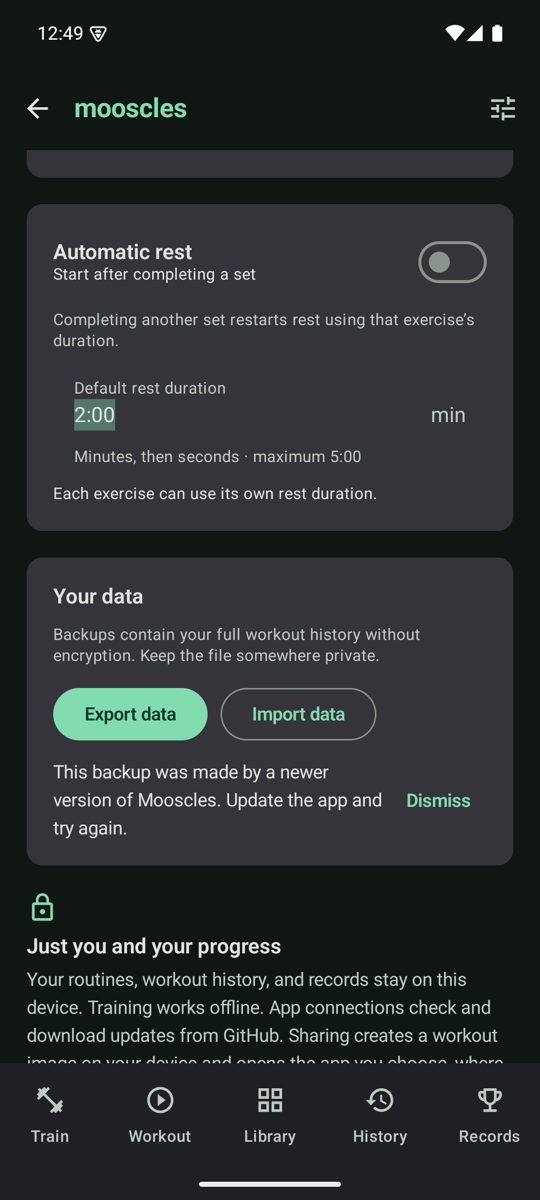
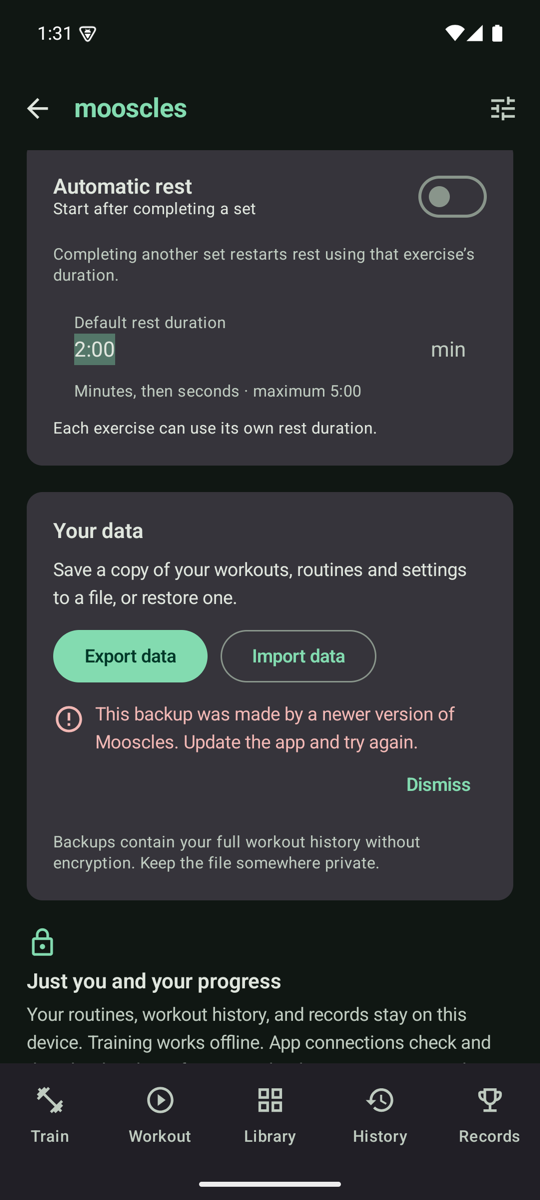
docs(backup): refresh verification after UI fixes

Changed region(s): [[0.0296, 0.1233, 0.9481, 0.8942], [0.0889, 0.0, 0.2074, 0.0308]]

diff --git a/docs/superpowers/reports/2026-10-27-export-import-verificacao.md b/docs/superpowers/reports/2026-10-27-export-import-verificacao.md
@@ -1,7 +1,7 @@
 # Export e import: verificação no emulador
 
 - **Data:** 2026-10-27
-- **Branch:** `feat/export-import` (código em `776bb90`; este commit só traz docs)
+- **Branch:** `feat/export-import`. A primeira rodada verificou o código em `776bb90`. A [segunda rodada](#segunda-rodada-depois-de-217a9a9) verificou `217a9a9`, que corrige os itens 1 a 7 da UI critique.
 - **Spec:** [2026-10-27-export-import-design.md](../specs/2026-10-27-export-import-design.md)
 - **Plano:** [2026-10-27-export-import.md](../plans/2026-10-27-export-import.md)
 - **Prints:** [2026-10-27-export-import-verificacao/](2026-10-27-export-import-verificacao/)
@@ -10,7 +10,7 @@
 
 O fluxo funciona de ponta a ponta no emulador, pelo seletor de arquivos do sistema. Export, `pm clear`, import, conferência dos dados, reimport idempotente, arquivos inválidos e o bloqueio durante um treino ativo se comportaram como a spec descreve. O build R8 (`assemblePerformance`) fez a ida e volta completa, e o `kotlinx.serialization` funciona minificado.
 
-**O problema encontrado:** com a base grande (208 treinos, 12.688 séries), o import termina de gravar em poucos segundos, mas em seguida a thread principal fica travada por **~142 s no build debug** e **~25 s no build R8**. A causa não está no código de backup. É o recálculo de PR do histórico em `WorkoutPresentation.present()`, na thread principal, que já trava a abertura do app e a troca de unidade com a mesma base (a fase 0 do ROADMAP já prevê tirar esse cálculo da thread principal). O import dispara esse recálculo uma ou duas vezes. Na prática, isso viola o anti-objetivo da spec "o export ou o import travar a UI" para a base grande. A decisão sobre o que fazer fica com o controlador (ver [Pontos para decisão](#pontos-para-decisão)).
+**O problema encontrado:** com a base grande (208 treinos, 12.688 séries), o import termina de gravar em poucos segundos, mas em seguida a thread principal fica travada por **~142 s no build debug** e **~25 s no build R8**. A causa não está no código de backup. É o recálculo de PR do histórico em `WorkoutPresentation.present()`, na thread principal, que já trava a abertura do app e a troca de unidade com a mesma base (a fase 0 do ROADMAP já prevê tirar esse cálculo da thread principal). O import dispara esse recálculo uma ou duas vezes. Na prática, isso viola o anti-objetivo da spec "o export ou o import travar a UI" para a base grande. Com qualquer toque durante o travamento, o Android mostra o diálogo **"Mooscles isn't responding" (ANR)**. Isso foi reproduzido na segunda rodada, depois do import, e também aconteceu numa abertura a frio. **Decisão:** o travamento não é corrigido nesta branch. A correção é o item "Cálculo de PR fora da thread principal", que passa a ser o próximo trabalho da fase 0 e bloqueia a release da v1.5 (ver [Decisão](#decisão) e a nota de 2026-10-27 na spec). Até lá, quem tiver um histórico grande e usar o APK debug distribuído vai ver esse diálogo depois de importar, e possivelmente ao abrir o app.
 
 ## Ambiente
 
@@ -68,14 +68,14 @@ Durante o import da execução 2, a pilha do processo foi amostrada a cada ~3 s 
 
 Portanto a gravação termina em menos de ~8 s. O tempo restante vai para o `historyUi = finished.map { workout(it, historical) }`, que para **cada** treino reconstrói um `SnapshotIndex` e compara com todos os treinos anteriores. O custo é quadrático no número de treinos, e o cálculo roda na thread principal, como o AGENTS.md descreve. No build debug o import provoca dois recálculos: um pela mudança dos dados e outro porque a restauração das preferências muda `pounds` (`historyPounds`). No R8 o arquivo tinha `pounds = false`, igual ao padrão, e houve um recálculo só.
 
-**ANR:** o `logcat` não tem nenhum `ANR in com.mooscles`, e `/data/anr` não tem traces do Mooscles desta sessão. Os traces que existem lá são de `com.google.android.apps.messaging` e do GMS. Isso só aconteceu porque **nenhum toque foi enviado durante os travamentos**. Um toque real de mais de 5 s sem resposta provavelmente abriria o diálogo "Mooscles isn't responding". Isso é inferência, não foi testado.
+**ANR:** na primeira rodada o `logcat` não teve `ANR in com.mooscles`, só porque nenhum toque foi enviado durante os travamentos. Na segunda rodada houve toques, e o ANR **apareceu duas vezes**. Os detalhes estão em [ANR observado](#anr-observado).
 
-**Indicador de `busy`:** durante a leitura e a validação (antes do diálogo), a barra de progresso aparece no card e os dois botões ficam desabilitados ([print 02](2026-10-27-export-import-verificacao/02-busy-progress.png)). Durante a gravação, porém, o diálogo "Import backup?" **continua aberto**, com Cancel e Import habilitados, e a barra fica atrás do scrim. Durante o travamento nada anima. Isso é coerente com o código: `confirmImport` só limpa `pendingImport` no `finally`.
+**Indicador de `busy`:** durante a leitura e a validação (antes do diálogo), a barra de progresso aparece no card e os dois botões ficam desabilitados ([print 02](2026-10-27-export-import-verificacao/02-busy-progress.png)). Durante a gravação, porém, o diálogo "Import backup?" **continua aberto**, com Cancel e Import habilitados, e a barra fica atrás do scrim. Durante o travamento nada anima. Isso é coerente com o código: `confirmImport` só limpa `pendingImport` no `finally`. **Corrigido no `217a9a9`:** o diálogo fecha 0,5 s depois de confirmar, e o card mostra "Importing…" com a barra ([print 02](2026-10-27-export-import-verificacao/02-busy-progress.png)).
 
 ## O que foi verificado no emulador
 
 1. **Build e instalação:** `./gradlew :app:assembleDebug` e `adb -s emulator-5554 install -r` (versionCode 16, 1.4.5).
-2. **Import pelo seletor numa base vazia** (`pm clear` antes). O resumo diz "Add 208 workouts, 3 routines and 2 custom exercises. Your units, theme and rest settings will also be restored." ([print 03](2026-10-27-export-import-verificacao/03-summary-new-install.png)). O resultado foi "Imported 208 workouts, 3 routines and 2 custom exercises" ([print 05](2026-10-27-export-import-verificacao/05-imported-done.png)).
+2. **Import pelo seletor numa base vazia** (`pm clear` antes). O resumo diz "Add 208 workouts, 3 routines and 2 custom exercises. Your units, theme and rest settings will also be restored." O resultado foi "Imported 208 workouts, 3 routines and 2 custom exercises" (na segunda rodada, com ícone de check: [print 05](2026-10-27-export-import-verificacao/05-imported-done.png)). O print deste diálogo é da primeira rodada e saiu da pasta, porque o fundo mostrava o card antigo. O texto do diálogo não mudou no `217a9a9`.
 3. **Export pelo seletor** (`ACTION_CREATE_DOCUMENT`): nome sugerido `mooscles-backup-2026-10-27.json`, pasta Downloads. Mensagem "Exported 208 workouts, 3 routines and 2 custom exercises". O arquivo foi baixado e comparado com o de origem: as 208 linhas de treino, as 1.248 de exercício de treino, as 12.688 de série, as 2 pastas e as 3 rotinas são idênticas. As 27 séries e os 9 itens de rotina têm a mesma identidade, e só os 9 alvos com `inheritPr = true` e as colunas espelho mudaram, como a spec prevê para alvos herdados de PR. A sincronização gerou 6 checkpoints, e o export levou o catálogo inteiro (295 exercícios), como a spec pede.
 4. **Fluxo completo da spec:** export → `pm clear com.mooscles` (**só no emulador**) → import do arquivo exportado. Depois disso:
    - **Banco:** contagens conferidas por `sqlite3` no emulador (`workouts` 208, `workout_exercises` 1248, `workout_sets` 12688, `routines` 3, `routine_exercises` 9, `routine_sets` 27, `routine_folders` 2, `routine_target_checkpoints` 6, exercícios personalizados 2, `user_version` 5).
@@ -83,15 +83,15 @@ Portanto a gravação termina em menos de ~8 s. O tempo restante vai para o `his
    - **Rotinas:** "Verif routine 1" em My routines, com 3 exercícios e 9 séries planejadas.
    - **Recordes:** Records lista Weight PR e Reps PR de "Barbell bench press", exibidos em **lb**.
    - **Preferências restauradas na instalação nova:** tema escuro, libras e descanso automático desligado. O descanso padrão de 2:00 do arquivo é igual ao valor padrão do app, então esse campo não prova a restauração.
-5. **Reimport do mesmo arquivo:** o resumo diz "Add 0 workouts, 0 routines and 0 custom exercises. 208 workouts are already on this phone and will be kept as they are." ([print 04](2026-10-27-export-import-verificacao/04-summary-already-on-phone.png)). Depois de confirmar, a mensagem é "Imported 0 workouts, 0 routines and 0 custom exercises" e as contagens de todas as tabelas ficam iguais.
+5. **Reimport do mesmo arquivo:** o resumo diz "Add 0 workouts, 0 routines and 0 custom exercises. 208 workouts are already on this phone and will be kept as they are." Depois de confirmar, a mensagem era "Imported 0 workouts, 0 routines and 0 custom exercises", e as contagens de todas as tabelas ficaram iguais. **Mudou no `217a9a9`:** agora o diálogo diz "Everything in this backup is already on this phone." e só oferece OK ([print 04](2026-10-27-export-import-verificacao/04-nothing-new.png)). Depois do OK não aparece mensagem nenhuma.
 6. **Arquivos inválidos**, com o hash MD5 do `sqlite3 .dump` e do `local_preferences.preferences_pb` conferido antes e depois:
-   - `random-notes.json`: "This file is not a Mooscles backup." ([print 06](2026-10-27-export-import-verificacao/06-error-not-a-backup.png));
-   - `"formatVersion": 2`: "This backup was made by a newer version of Mooscles. Update the app and try again." ([print 07](2026-10-27-export-import-verificacao/07-error-newer-version.png));
+   - `random-notes.json`: "This file is not a Mooscles backup." (só na primeira rodada; o print saiu da pasta);
+   - `"formatVersion": 2`: "This backup was made by a newer version of Mooscles. Update the app and try again." (refeito na segunda rodada: texto e ícone na cor de erro, [print 07](2026-10-27-export-import-verificacao/07-error-newer-version.png));
    - nenhum diálogo de resumo abriu, e os dois hashes ficaram idênticos (`25d968ee…` e `4de1f925…`).
 7. **Cancelamentos:** voltar do seletor de import e do de export não faz nada. Não aparece mensagem, e o hash do banco não muda. Cancel no diálogo de resumo também não grava nada (208 treinos antes e depois).
 8. **Treino ativo:** com um treino vazio iniciado, **Import data** fica desabilitado (`enabled="false"` no `uiautomator`) e aparece o texto "Finish or discard the active workout to import". **Export data** continua habilitado ([print 08](2026-10-27-export-import-verificacao/08-active-workout-block.png)). Depois, o treino foi descartado (208 finalizados, nenhum ativo).
 9. **R8 (`./gradlew :app:assemblePerformance`):** instalado com `install -r` sobre o debug, sem erro de assinatura, porque usa a mesma chave local. Ida e volta completa: export (5.352.603 bytes) → `pm clear` → import → mensagem "Imported 208 workouts, 3 routines and 2 custom exercises" e as mesmas contagens no banco. O export R8 foi comparado com o export debug: as 9 listas são idênticas linha por linha, os nomes de campo estão preservados (`id`, `name`, `startedAt`…), não há crash e não aparece `SerializationException` no `logcat`. **O `kotlinx.serialization` funciona sob R8 sem regras de keep adicionais.**
-10. **Temas:** o card foi visto no claro ([print 01](2026-10-27-export-import-verificacao/01-card-idle.png)) e no escuro (prints 02 a 08).
+10. **Temas:** o card foi visto no claro (prints 02 e 03, durante o import numa instalação nova) e no escuro (prints 01 e 04 a 08).
 
 No fim, o emulador ficou de novo com o build debug (`install -r`) e o `adbd` sem root.
 
@@ -104,29 +104,30 @@ No fim, o emulador ficou de novo com o build debug (`install -r`) e o `adbd` sem
 - **JSON corrompido, referência faltando, ID duplicado, dois treinos ativos e treino ativo vindo do arquivo:** cobertos só por testes de host.
 - **Preferências mantidas quando o aparelho já tem dados.** No reimport, o arquivo e o aparelho tinham as mesmas preferências, então o caso não dá para distinguir no emulador. Isso só está coberto em host.
 - **TalkBack:** o anúncio da mensagem (`liveRegion`) e a descrição "Working…" da barra não foram ouvidos.
-- **ANR com toque do usuário durante o travamento.** Não foi provocado.
 - Fonte grande, paisagem e tablets.
 - **Fluxo Maestro.** Não foi criado `.maestro/export-import.yaml`. O seletor foi controlado por `adb` e `uiautomator` e funcionou, mas não com estabilidade suficiente para virar um fluxo versionado: a lista "Recent" do DocumentsUI mostra entradas antigas de arquivos apagados com o mesmo nome, a grade e a lista trocam de posição, o tutorial de caneta do Gboard apareceu e engoliu o texto digitado no nome do arquivo, e o seletor demora de 3 a 4 s para fechar depois de SAVE.
 - **Revisão de compatibilidade (`compat-reviewer`):** fica com o controlador, como foi combinado.
+- **Depois do `217a9a9`:** o build R8 e o export não foram refeitos. A mensagem de sucesso só foi vista depois de um import, não depois de um export. O diálogo de resumo com dados novos não foi fotografado de novo, porque o texto não mudou.
+- **Medida de contraste no aparelho:** não foi feita. O contraste do texto de treino ativo vem do teste de host do `217a9a9`.
 
 ## UI critique
 
-Feita com a skill `critique-screen` sobre os prints 01 a 08 (card "Your data" e diálogo de resumo). A lista registra só o que foi encontrado: nada foi implementado.
+Feita com a skill `critique-screen` sobre os prints da primeira rodada (card "Your data" e diálogo de resumo). Os itens 1 a 7 foram corrigidos no `217a9a9` e conferidos no emulador na segunda rodada. Os itens 8 a 10 ficaram para depois.
 
 ### P1 — Crítico
 
-1. **Affordance:** o diálogo de confirmação continua aberto durante a gravação, com Import e Cancel habilitados, e a barra de progresso fica escondida atrás do scrim. Com a base grande isso dura de 30 a 147 s, e Cancel não interrompe nada (o comando entra na fila e não tem efeito). **Correção:** fechar o diálogo ao confirmar (limpar `pendingImport` antes do trabalho) e mostrar o progresso no card, ou manter o diálogo com um progresso próprio e os botões desabilitados.
-2. **Cor:** mensagens de erro e de sucesso têm o mesmo estilo (`bodyMedium`, `onSurface`, sem ícone), como mostram os prints 05 e 07. Quem só passa os olhos não sabe se deu certo. **Correção:** erro com `colorScheme.error` ou `errorContainer` e ícone; sucesso com ícone de check. Assim a informação não depende só do texto.
-3. **Densidade e affordance:** quando não há nada a acrescentar, o diálogo diz "Add 0 workouts, 0 routines and 0 custom exercises…" e ainda oferece **Import**, que não faz nada. Em seguida aparece "Imported 0 workouts…". **Correção:** com tudo já no aparelho, dizer "Everything in this backup is already on this phone." com um único botão OK, e não usar "Imported 0…" como resultado.
+1. **Affordance:** o diálogo de confirmação continua aberto durante a gravação, com Import e Cancel habilitados, e a barra de progresso fica escondida atrás do scrim. Com a base grande isso dura de 30 a 147 s, e Cancel não interrompe nada (o comando entra na fila e não tem efeito). **Correção:** fechar o diálogo ao confirmar (limpar `pendingImport` antes do trabalho) e mostrar o progresso no card, ou manter o diálogo com um progresso próprio e os botões desabilitados. **Corrigido (`217a9a9`):** o diálogo some 0,47 s depois do toque em Import (polling de `dumpsys window`), e o card mostra "Importing…" com a barra (print 02).
+2. **Cor:** mensagens de erro e de sucesso têm o mesmo estilo (`bodyMedium`, `onSurface`, sem ícone), como mostram os prints 05 e 07. Quem só passa os olhos não sabe se deu certo. **Correção:** erro com `colorScheme.error` ou `errorContainer` e ícone; sucesso com ícone de check. Assim a informação não depende só do texto. **Corrigido:** o erro aparece na cor de erro, com ícone de alerta (print 07), e o sucesso com um check na cor primária (prints 05 e 08).
+3. **Densidade e affordance:** quando não há nada a acrescentar, o diálogo diz "Add 0 workouts, 0 routines and 0 custom exercises…" e ainda oferece **Import**, que não faz nada. Em seguida aparece "Imported 0 workouts…". **Correção:** com tudo já no aparelho, dizer "Everything in this backup is already on this phone." com um único botão OK, e não usar "Imported 0…" como resultado. **Corrigido:** o diálogo agora diz "Everything in this backup is already on this phone." e tem só OK (print 04). Depois do OK não aparece mensagem.
 
 ### P2 — Importante
 
-4. **Affordance:** a barra indeterminada não diz qual operação está rodando, e os dois botões ficam desabilitados sem explicação. **Correção:** um rótulo ao lado da barra ("Exporting…", "Checking backup…", "Importing…").
-5. **Hierarquia:** a primeira coisa que o card diz é o aviso de criptografia. Não há uma linha dizendo para que o card serve. **Correção:** abrir com o propósito ("Save a copy of your workouts, routines and settings to a file, or restore one.") e deixar o aviso de privacidade como texto secundário depois dos botões.
-6. **Composição:** a linha de mensagem divide a largura com um TextButton "Dismiss" de ~25%, e a mensagem quebra em 2 ou 3 linhas (prints 05 e 07). **Correção:** mensagem na largura toda, com o Dismiss abaixo, alinhado ao fim, ou um ícone de fechar de 48 dp.
-7. **Cor:** no tema escuro, o botão **Import data** desabilitado e o texto "Finish or discard…" ficam com contraste muito baixo (print 08). Botões desabilitados são exceção no WCAG, mas a explicação não é, e tem que passar de 4,5:1. **Correção:** manter a explicação em `onSurfaceVariant` com contraste medido, ou levá-la para perto do botão com um ícone de informação.
+4. **Affordance:** a barra indeterminada não diz qual operação está rodando, e os dois botões ficam desabilitados sem explicação. **Correção:** um rótulo ao lado da barra ("Exporting…", "Checking backup…", "Importing…"). **Corrigido:** vi "Checking backup…" (print 03) e "Importing…" (print 02). "Exporting…" não foi visto no emulador.
+5. **Hierarquia:** a primeira coisa que o card diz é o aviso de criptografia. Não há uma linha dizendo para que o card serve. **Correção:** abrir com o propósito ("Save a copy of your workouts, routines and settings to a file, or restore one.") e deixar o aviso de privacidade como texto secundário depois dos botões. **Corrigido:** o card abre com essa frase, e o aviso fica no fim (print 01).
+6. **Composição:** a linha de mensagem divide a largura com um TextButton "Dismiss" de ~25%, e a mensagem quebra em 2 ou 3 linhas (prints 05 e 07). **Correção:** mensagem na largura toda, com o Dismiss abaixo, alinhado ao fim, ou um ícone de fechar de 48 dp. **Corrigido:** a mensagem ocupa a largura toda, e o Dismiss fica abaixo, à direita (prints 05 e 07).
+7. **Cor:** no tema escuro, o botão **Import data** desabilitado e o texto "Finish or discard…" ficam com contraste muito baixo (print 08). Botões desabilitados são exceção no WCAG, mas a explicação não é, e tem que passar de 4,5:1. **Correção:** manter a explicação em `onSurfaceVariant` com contraste medido, ou levá-la para perto do botão com um ícone de informação. **Resolvido:** a cor não mudou, mas o teste de host do `217a9a9` (`activeWorkoutExplanationMeetsContrastInDarkTheme`) mediu 7,3:1 para o texto no tema escuro. Minha leitura visual estava errada quanto ao texto. O que tem pouco contraste é o botão desabilitado, que é exceção no WCAG (print 08).
 
-### P3 — Polimento
+### P3 — Polimento (fica para depois)
 
 8. **Tipografia:** os números do resumo ficam diluídos numa frase longa. **Correção:** dar destaque às contagens ou usar uma lista curta, uma linha por tipo.
 9. **Densidade:** o card de privacidade logo abaixo ("Workout data is excluded from automatic cloud backups") não menciona o export manual. **Correção:** acrescentar "unless you export it" ou um link para "Your data".
@@ -134,11 +135,40 @@ Feita com a skill `critique-screen` sobre os prints 01 a 08 (card "Your data" e 
 
 **Avaliação geral:** a dimensão mais forte é a composição. O card segue o padrão dos cards de Configurações, a ação segura (Export) é o botão cheio e o import é o contorno, e o bloqueio do treino ativo fica explicado no lugar certo. A mais fraca é a visibilidade de estado (affordance e cor): o diálogo fica aberto durante a gravação, erro e sucesso têm a mesma aparência e o caso "nada a acrescentar" pede uma confirmação sem efeito.
 
-## Pontos para decisão
+## Decisão
 
-- **Travamento depois do import com a base grande:** 25 s no R8 e 142 s no debug. A causa é anterior a este trabalho (recálculo de PR do histórico na thread principal) e já está no ROADMAP como item da fase 0. Opções: (a) aceitar até esse item ser feito e registrar a limitação, o que já está no README; (b) mitigar só no import, aplicando dados e preferências de uma vez para haver um único recálculo, o que no debug corta pela metade; (c) adiantar o item "Cálculo de PR fora da thread principal" antes da release da v1.5.
-- **Itens P1 da UI critique**, principalmente o diálogo aberto durante a gravação, que piora a percepção do travamento.
+Decisão do controlador em 2026-10-27, registrada na nota de desempenho da [spec](../specs/2026-10-27-export-import-design.md#notas-de-implementação):
+
+- **O travamento depois do import não é corrigido nesta branch.** A correção é o item "Cálculo de PR fora da thread principal" da fase 0 do [ROADMAP](../ROADMAP.md), que passa a ser o próximo trabalho e **bloqueia a release da v1.5**. A restrição da spec "a UI não congela" continua valendo e só fica cumprida com esse item.
+- **Consequência até lá:** quem tiver um histórico grande e usar o APK debug distribuído vai ver o diálogo "Mooscles isn't responding" depois de importar, se tocar na tela durante o travamento, e possivelmente ao abrir o app. Escolher "Close app" mata o processo. Os dados importados já estão gravados nesse momento, mas isso não foi conferido depois de um "Close app" no meio do travamento pós-import (ver a segunda rodada).
+- Os itens P1 e P2 da UI critique foram corrigidos no `217a9a9`.
+
+## Segunda rodada (depois de `217a9a9`)
+
+Feita em 2026-10-27 entre 13:25 e 13:40, no mesmo emulador, com `./gradlew :app:assembleDebug` e `adb -s emulator-5554 install -r`. A base no aparelho era a importada na primeira rodada. Os prints da pasta foram substituídos pelos desta rodada.
+
+| Verificação | Resultado |
+| --- | --- |
+| Card parado (tema escuro) | Abre com "Save a copy of your workouts, routines and settings to a file, or restore one.", seguido dos botões, com o aviso de criptografia no fim ([print 01](2026-10-27-export-import-verificacao/01-card-idle.png)) |
+| Arquivo com `formatVersion: 2` | Ícone de alerta e texto na cor de erro; Dismiss abaixo, à direita ([print 07](2026-10-27-export-import-verificacao/07-error-newer-version.png)) |
+| Reimport do arquivo grande (mesmos IDs) | Durante a leitura aparece "Checking backup…" com a barra e os dois botões desabilitados ([print 03](2026-10-27-export-import-verificacao/03-busy-checking.png)). Depois, "Everything in this backup is already on this phone." só com OK ([print 04](2026-10-27-export-import-verificacao/04-nothing-new.png)). Depois do OK não aparece nenhuma mensagem: o `uiautomator` não encontrou "Imported" nem "Dismiss" |
+| Import grande numa base vazia (`pm clear` só no emulador) | O diálogo de resumo levou 8,8 s para abrir depois do toque no arquivo. Ao confirmar, o diálogo fechou em 0,47 s e o card mostrou "Importing…" com a barra, no tema claro da instalação nova ([print 02](2026-10-27-export-import-verificacao/02-busy-progress.png)). A mensagem de sucesso e o tema escuro restaurado já aparecem por trás do diálogo de ANR (print 06), e depois a mensagem aparece com o ícone de check ([print 05](2026-10-27-export-import-verificacao/05-imported-done.png)) |
+| Treino ativo no tema escuro | Import data desabilitado (`enabled="false"`), explicação abaixo dos botões e Export habilitado ([print 08](2026-10-27-export-import-verificacao/08-active-workout-block.png)). Depois o treino foi descartado |
+
+### ANR observado
+
+**1. Depois do import (provocado de propósito).** O import foi confirmado às 13:33:59. A gravação e a mensagem terminaram em poucos segundos, e a thread principal ficou travada de ~13:34:03,6 a 13:34:51,3 (`Davey! duration=47675ms`, `Skipped 2845 frames`). Desta vez houve só um recálculo, não dois como na primeira rodada. Às 13:34:14 um toque foi injetado sobre o título do card, como faria um usuário. O `logcat` registrou:
+
+```
+13:34:19.794 I/WindowManager: ANR in Window{3cd0f3a u0 com.mooscles/com.mooscles.MainActivity}. Reason:Input dispatching timed out
+13:34:21.279 E/ActivityManager: ANR in com.mooscles (com.mooscles/.MainActivity)
+13:34:21.279 E/ActivityManager: Reason: Input dispatching timed out (... is not responding. Waited 5011ms for MotionEvent(deviceId=-1, ...
+```
+
+O `dumpsys activity lastanr` confirma: "ANR time: Oct 27, 2026 1:34:19 PM". O diálogo "Mooscles isn't responding", com "Close app" e "Wait", foi capturado às 13:34:44 ([print 06](2026-10-27-export-import-verificacao/06-anr-after-import.png)). Ele fechou sozinho às 13:34:51,3, quando a thread principal voltou. O toque em "Wait" que eu enviei às 13:34:59 chegou depois disso: o `uiautomator` não encontrou "Wait", e o toque de reserva por coordenada caiu em **Export data** e abriu o seletor de export. Voltei sem salvar, e nada foi gravado. O processo seguiu vivo (mesmo PID 24297), e o card mostrava "Imported 208 workouts, 3 routines and 2 custom exercises". As contagens no banco não foram conferidas por `sqlite3` nesta rodada, porque o `adbd` estava sem root.
+
+**2. Numa abertura a frio (sem querer).** Às 13:25:4x o app foi aberto com a base grande. Meu script de navegação continuou depois de um `uiautomator dump` falhar e mandou swipes durante o travamento da abertura. O resultado foi um ANR às 13:26:01,971 (`ANR in com.mooscles ... Input dispatching timed out`) e o diálogo às 13:26:03,7. Às 13:26:23,7 o diálogo foi fechado com **"Close app"** (`Killing 23041:com.mooscles/u0a207 (adj 0): user request after error`). Esse toque não saiu dos meus scripts; provavelmente foi de quem acompanhava o emulador. Depois disso, o meu próximo toque, procurando "Settings" no Mooscles, caiu no ícone do app Configurações do Android, que foi fechado com HOME. O script foi corrigido para parar quando o dump falha. Ao reabrir sem tocar na tela, a abertura travou 48,7 s (`Skipped 2920 frames`) e não houve ANR.
 
 ## Suíte final
 
-`./gradlew :app:testDebugUnitTest :app:lintDebug :app:assembleDebug --console=plain` → `BUILD SUCCESSFUL`. Foram 449 testes, 0 falhas, 0 erros e 0 ignorados, e o lint deu 0 erros e 21 avisos. O `testDebugUnitTest` e o `assembleDebug` vieram `UP-TO-DATE` da execução anterior no mesmo `776bb90`, porque o código não mudou e este commit só traz docs.
+`./gradlew :app:testDebugUnitTest :app:lintDebug :app:assembleDebug --console=plain` → `BUILD SUCCESSFUL`. Foram 449 testes, 0 falhas, 0 erros e 0 ignorados, e o lint deu 0 erros e 21 avisos. O `testDebugUnitTest` e o `assembleDebug` vieram `UP-TO-DATE` da execução anterior no mesmo `776bb90`, porque o código não mudou e este commit só traz docs. Para a segunda rodada (`217a9a9`) só rodei `:app:assembleDebug`. A suíte completa não foi rodada de novo por mim, porque o commit desta rodada também só traz docs. O resultado do `DataSectionHostTest` citado acima vem da execução do controlador.

diff --git a/README.md b/README.md
@@ -18,7 +18,7 @@ Version 1.4.5 / Build 16 prepares workout/card details on the UI thread while da
 
 ## Your data
 
-**Settings → Your data** exports everything (workouts, routines and folders, custom exercises, PR checkpoints and preferences) to one versioned JSON file, saved wherever you choose through the Android file picker. **Import data** reads and validates the whole file before writing anything, shows what will be added, and only adds: workouts and routines already on the phone are kept as they are, and importing the same file again changes nothing. Preferences are restored only on a phone with no workouts or routines yet. Import is unavailable during an active workout. The file is not encrypted, so keep it somewhere private. This feature is not in a published release yet. With a very large history, the app can still freeze after an import while it recalculates records, the same startup freeze noted above; see the [verification report](docs/superpowers/reports/2026-10-27-export-import-verificacao.md).
+**Settings → Your data** exports everything (workouts, routines and folders, custom exercises, PR checkpoints and preferences) to one versioned JSON file, saved wherever you choose through the Android file picker. **Import data** reads and validates the whole file before writing anything, shows what will be added, and only adds: workouts and routines already on the phone are kept as they are, and importing the same file again changes nothing. Preferences are restored only on a phone with no workouts or routines yet. Import is unavailable during an active workout. The file is not encrypted, so keep it somewhere private. This feature is not in a published release yet. Known limit: with a very large history, the app freezes for tens of seconds after an import while it recalculates records, the same freeze noted above for startup. Touching the screen during the freeze shows Android's "isn't responding" dialog. Moving that calculation off the main thread is the next planned fix and blocks the next release. See the [verification report](docs/superpowers/reports/2026-10-27-export-import-verificacao.md).
 
 ## Download
 

diff --git a/docs/superpowers/ROADMAP.md b/docs/superpowers/ROADMAP.md
@@ -76,9 +76,9 @@ As durações são estimativas para um desenvolvedor sozinho e servem para orden
 
 **Entregas:**
 
-- Export/import de todos os dados em JSON com versão, pelo seletor de arquivos do sistema ([spec](specs/2026-10-27-export-import-design.md)). **Concluído (2026-10-27)** na branch `feat/export-import`, ainda sem release: [plano](plans/2026-10-27-export-import.md), [verificação no emulador](reports/2026-10-27-export-import-verificacao.md). Com a base grande, o import dispara o travamento já conhecido do cálculo de PR na thread principal (item abaixo); o relatório traz os números.
+- Export/import de todos os dados em JSON com versão, pelo seletor de arquivos do sistema ([spec](specs/2026-10-27-export-import-design.md)). **Concluído (2026-10-27)** na branch `feat/export-import`, ainda sem release: [plano](plans/2026-10-27-export-import.md), [verificação no emulador](reports/2026-10-27-export-import-verificacao.md). Com a base grande, o import dispara o travamento já conhecido do cálculo de PR na thread principal, e um toque durante o travamento abre o diálogo de ANR. Decisão de 2026-10-27: isso não é corrigido nesta branch, e sim pelo item abaixo. O relatório traz os números.
 - Cópia de segurança da chave de assinatura, guardada fora da máquina, no 1Password. **Pendente (2026-10-27):** a chave das releases está com o dono do repositório original (`ReiTut/Mooscles`), não no Mac deste fork. O trabalho segue em branches e o assunto é resolvido na release final, quando o PR for aberto para o repositório original. Até lá, builds feitos aqui servem só para emulador e testes.
-- Cálculo de PR fora da thread principal, com recordes materializados, para acabar com o travamento na abertura.
+- Cálculo de PR fora da thread principal, com recordes materializados, para acabar com o travamento na abertura e depois de um import. **Próximo trabalho (decisão de 2026-10-27); bloqueia a release da v1.5.**
 - Build e release rodando no macOS.
 - CI no GitHub Actions com testes de host e lint.
 
